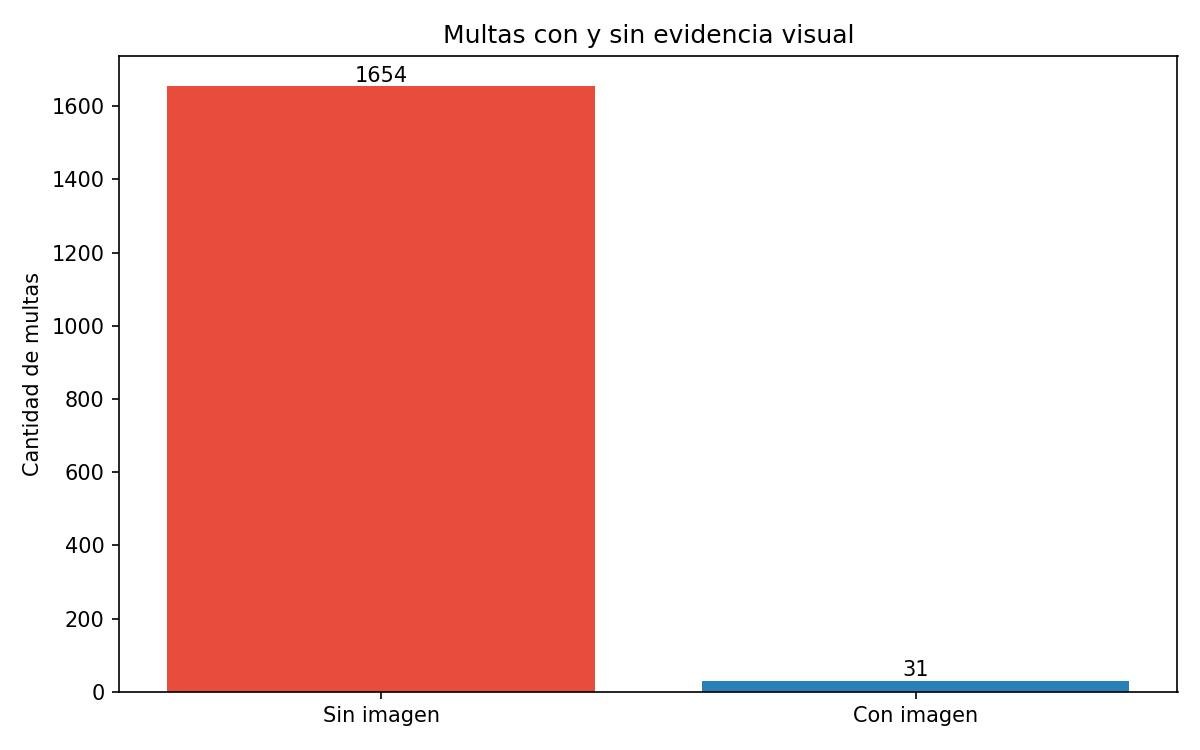
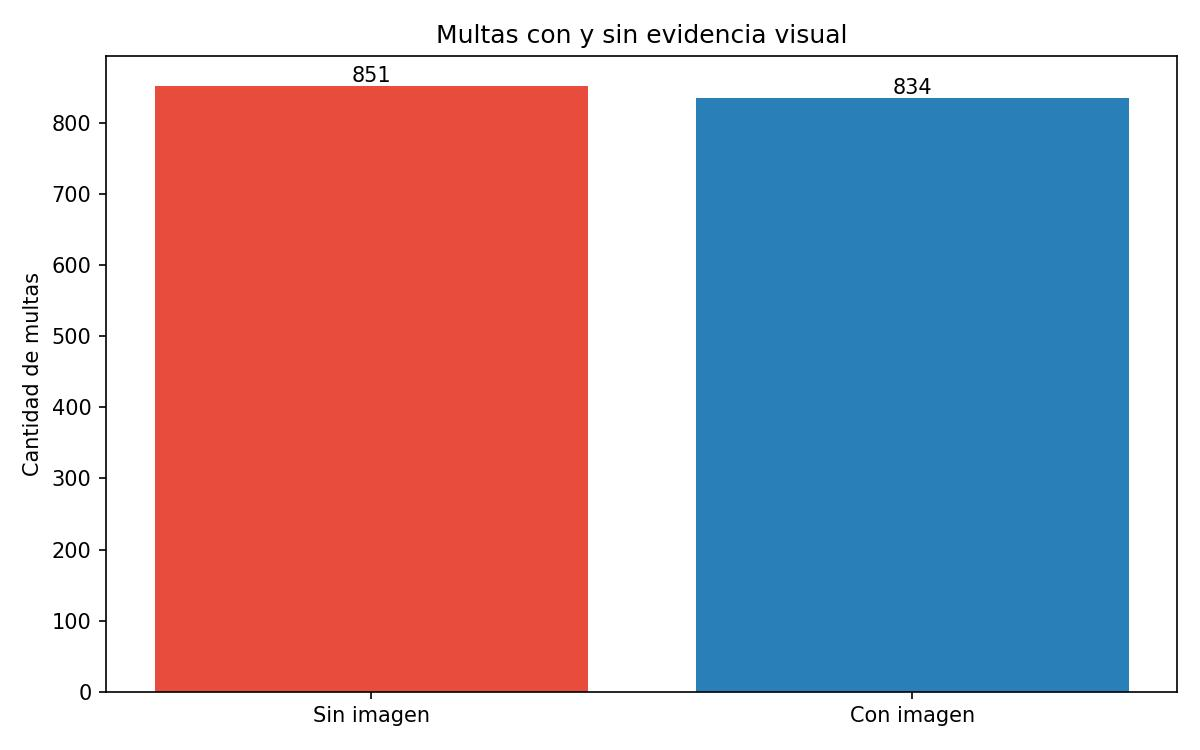
feat(ej05-s2): metricas y graficos dataset final

diff --git a/CHANGELOG.md b/CHANGELOG.md
@@ -107,3 +107,10 @@
 - Filtrado geometrico con margen asimetrico en completes.
 - Cruce LCS con ratio >= 0.80 (izq a der).
 - speeding_fines_image.csv en data/processed/.
+
+## [Sprint 2] - Ejercicio 05
+### Added
+- Métricas: multas sin/con imagen e imgs sin match.
+- Métricas: multas pendientes totales y con imagen.
+- multas_imagen.jpg: distribución con/sin evidencia.
+- top10_patentes_imagen.jpg: top 10 con match.
